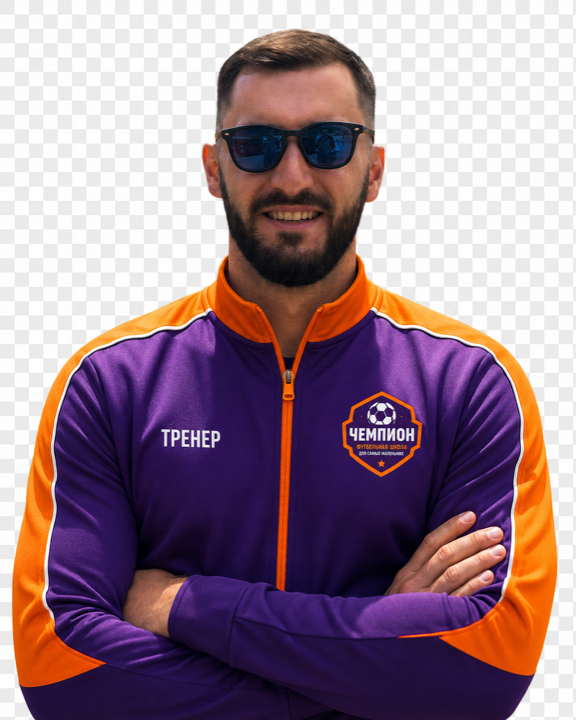
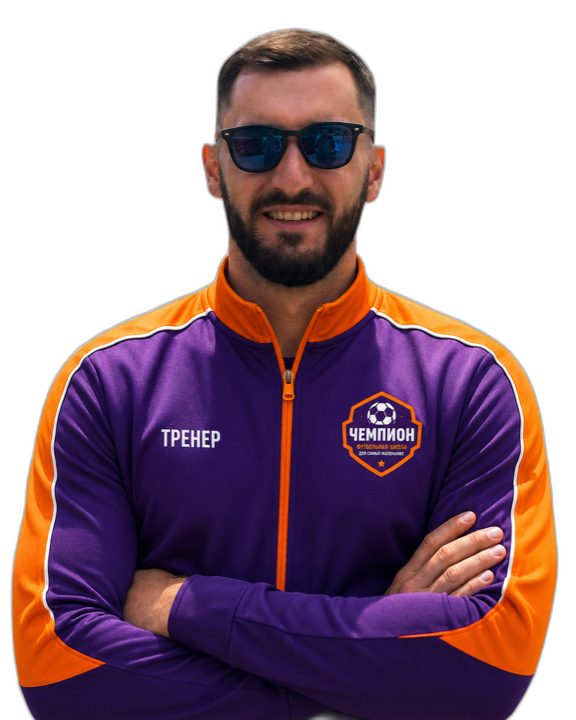
Bobin & Yusupov: cut out backgrounds via rembg
The two photos came in with solid backgrounds (hasAlpha: no), so
they read awkwardly against the card's brand gradient — visible
photo edges instead of clean cutouts like the other coaches.

Ran rembg with U²-Net on both images: now hasAlpha: yes, and the
brand gradient shows through behind the figure as intended. Same
576×720 px, file size actually dropped (less detail to compress).

Sunglasses on Bobin: cannot remove programmatically (that's
generative inpainting, needs a human in Photoshop or an AI photo
editor with API access). Leaving as-is until a clean photo is
available.

Bumped image cache-buster to ?v=3.

diff --git a/src/app/pages/Home.tsx b/src/app/pages/Home.tsx
@@ -616,7 +616,7 @@ export function Home() {
                 <div className={`relative aspect-square overflow-hidden ${coach.photo ? "bg-gradient-to-b from-orange-50 via-white to-indigo-50" : coach.bgClass}`}>
                   {coach.photo ? (
                     <img
-                      src={`${coach.photo}?v=2`}
+                      src={`${coach.photo}?v=3`}
                       alt={coach.name}
                       loading="lazy"
                       className="absolute inset-x-0 top-0 h-[120%] w-full object-cover object-top transition-transform duration-500 group-hover:scale-105"
